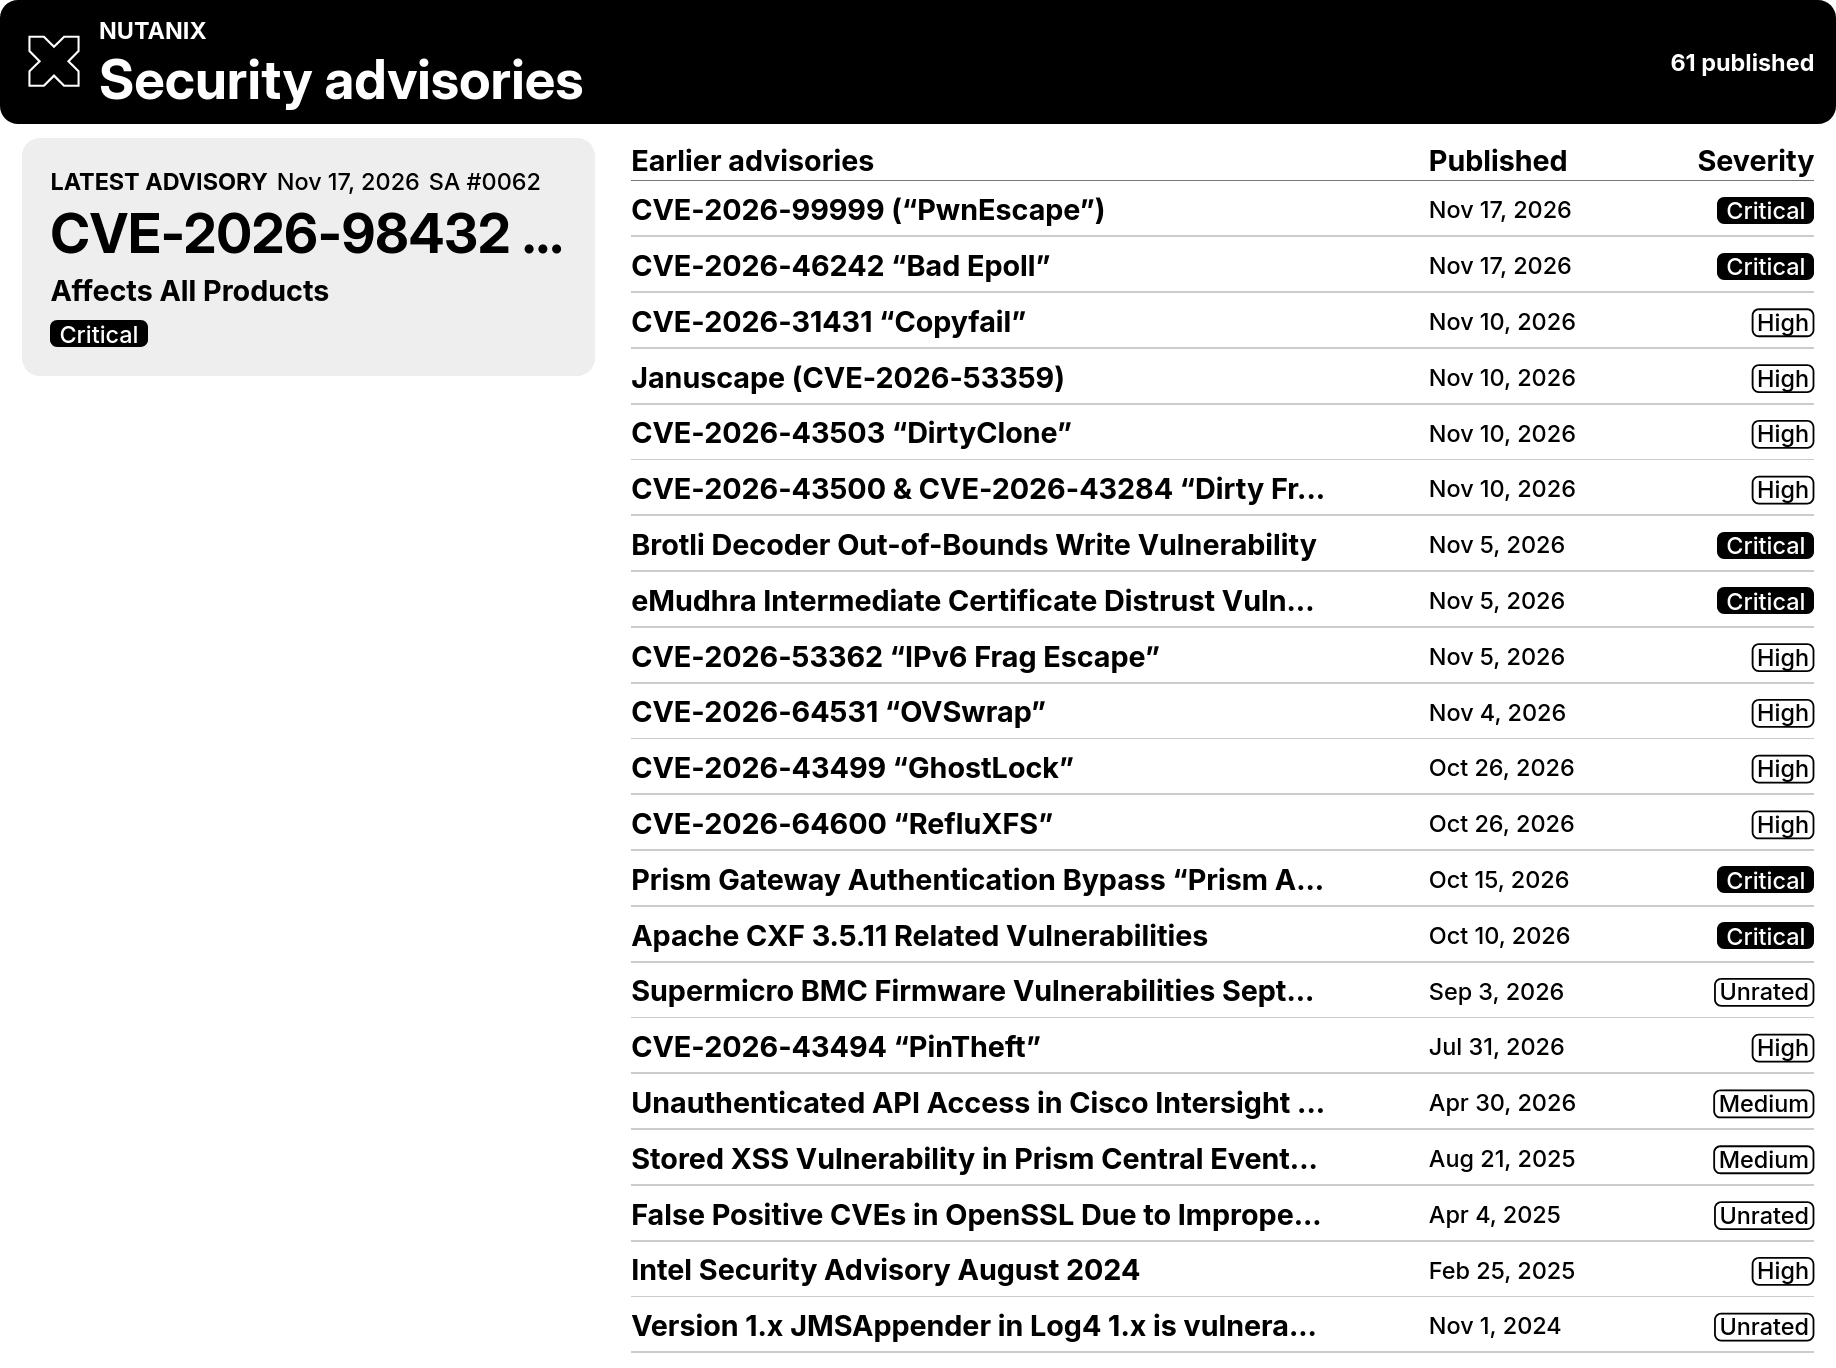
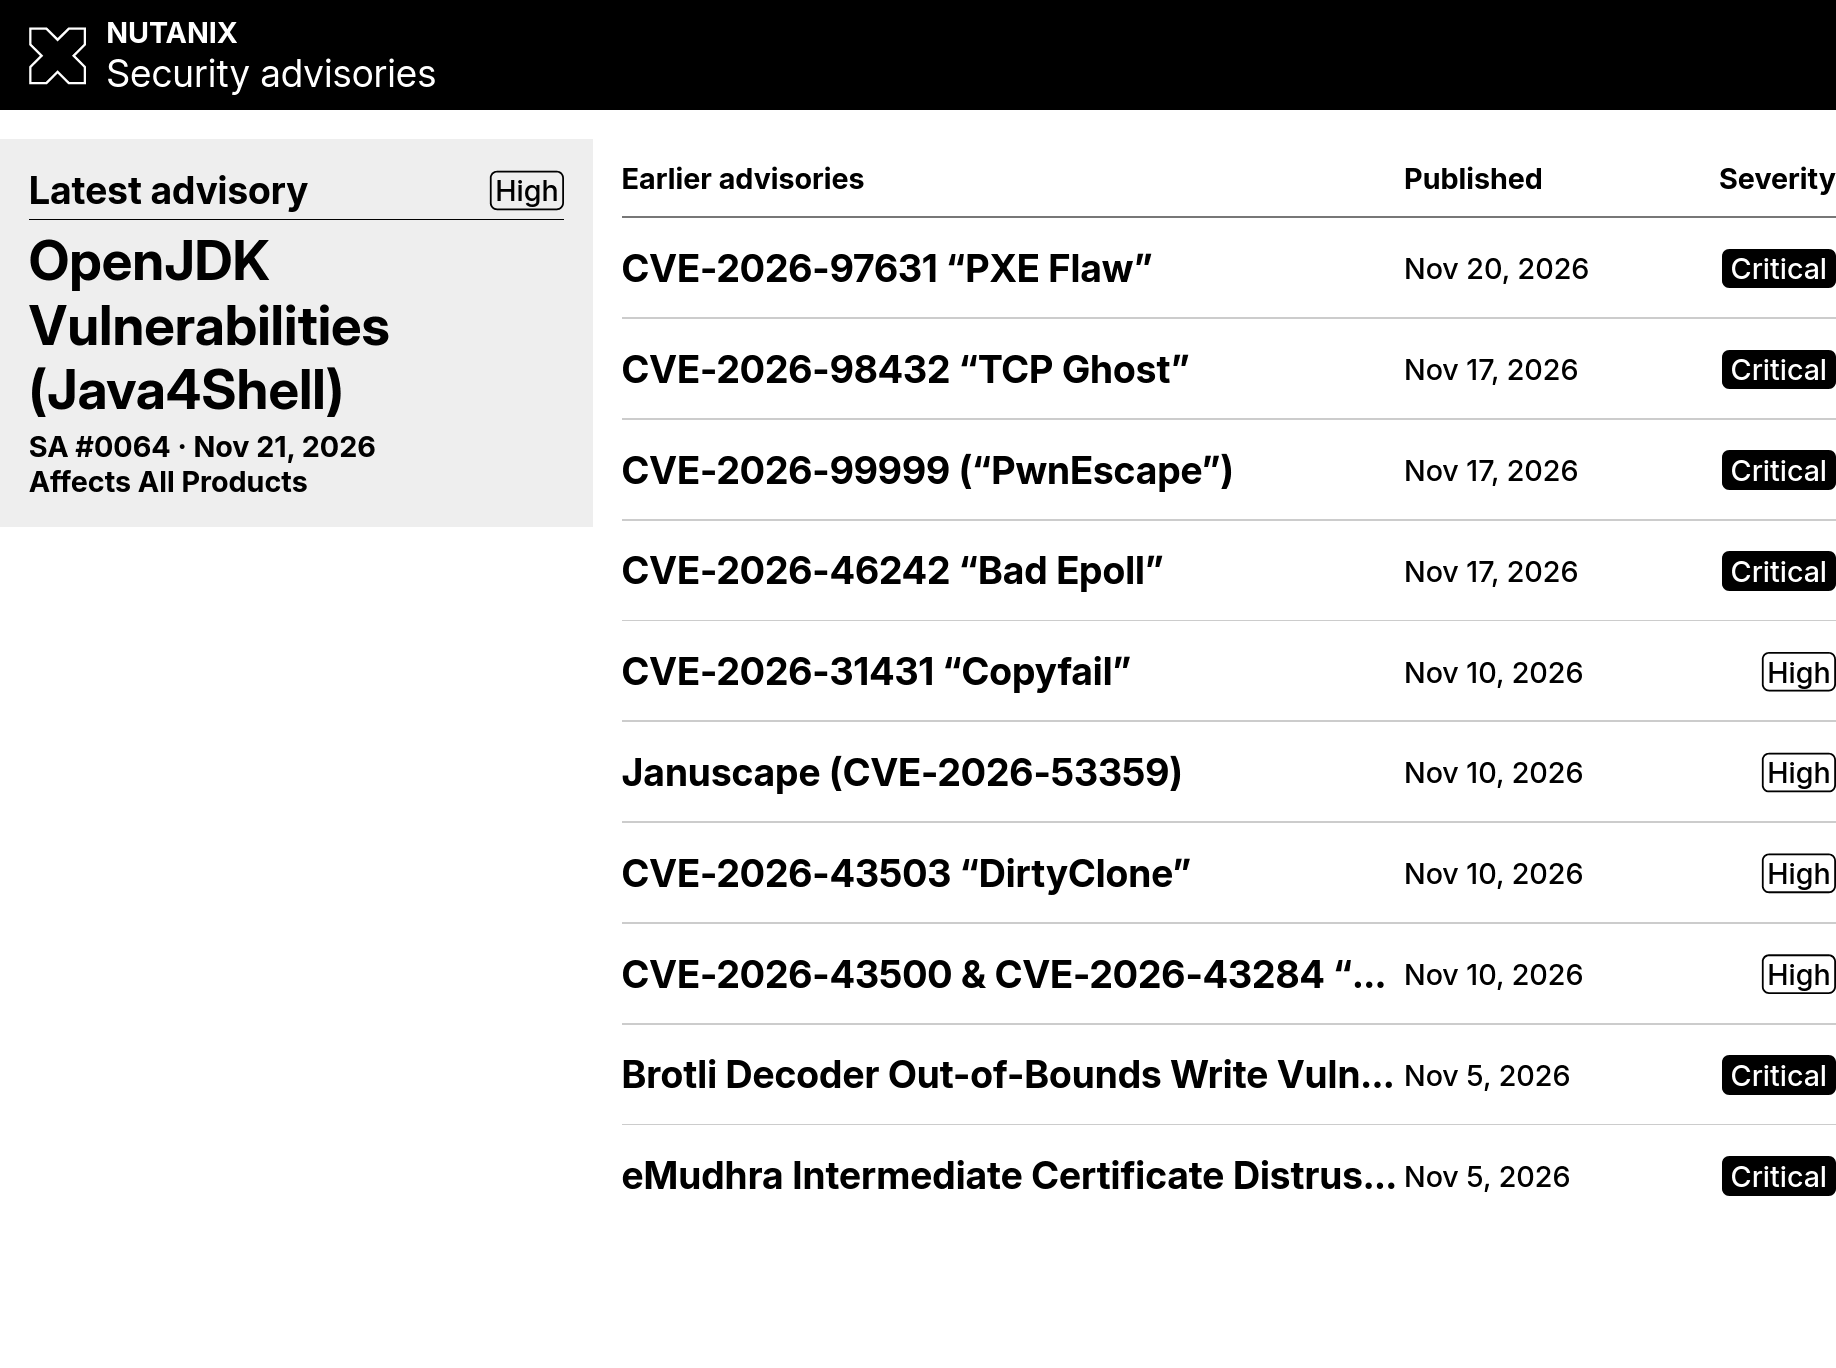
refactor: stabilize and simplify nutanix brief layouts

Changed region(s): [[0.0, 0.0, 1.0, 0.9825], [0.0, 0.1228, 0.3105, 0.3684], [0.9935, 0.0, 1.0, 0.0307]]

diff --git a/TRMNL/src/transform.js b/TRMNL/src/transform.js
@@ -2,6 +2,8 @@
 const SOURCE = 'https://portal.nutanix.com';
 const TIMEOUT_MS = 4500;
 const PAGE_SIZE = 20;
+// The largest view uses one featured item and ten table rows.
+const DISPLAY_LIMIT = 11;
 const ADVISORY_CRITICALITY = ['informational', 'low', 'medium', 'high', 'critical'];
 const PRODUCTS = new Map([
   ['aos', 'AOS'],
@@ -39,7 +41,7 @@ function advisoryData(entries, criticalityFirst) {
     const leftRank = ADVISORY_CRITICALITY.indexOf(text(left.criticality).trim().toLowerCase());
     const rightRank = ADVISORY_CRITICALITY.indexOf(text(right.criticality).trim().toLowerCase());
     return leftRank - rightRank || byDate;
-  });
+  }).slice(-DISPLAY_LIMIT);
   const body = sorted.map((entry, index) => ({
     advisoryNumber: text(entry.advisoryNumber),
     criticality: text(entry.criticality),
@@ -57,7 +59,7 @@ function advisoryData(entries, criticalityFirst) {
 function vulnerabilityData(entries, product) {
   const rows = entries
     .filter((entry) => entry.status === 'Released' && (!product || entry.productName === product))
-    .slice(0, PAGE_SIZE)
+    .slice(0, DISPLAY_LIMIT)
     .map((entry) => {
       const cvss = text(entry.cvss).trim();
       return {

diff --git a/TRMNL/tests/layout_spec.rb b/TRMNL/tests/layout_spec.rb
@@ -1,5 +1,6 @@
 require 'fileutils'
 require 'json'
+require 'yaml'
 
 RSpec.describe 'Nutanix Security layouts' do
   advisories_url = 'https://portal.nutanix.com/api/v1/pages/securityAdvisories'
@@ -40,10 +41,16 @@ RSpec.describe 'Nutanix Security layouts' do
     'x-portrait' => { model: 'v2', width: 1404, height: 1872, bit_depth: 4, screen_classes: 'screen screen--v2 screen--lg screen--4bit screen--portrait' }
   }
   views = %w[full half_horizontal half_vertical quadrant]
+  row_limits = {
+    'og' => [4, 3, 4, 0],
+    'og-portrait' => [8, 3, 8, 0],
+    'x' => [10, 5, 9, 2],
+    'x-portrait' => [10, 5, 9, 2]
+  }
 
   cases.each do |scenario, (mode, mocks, label, count, advisory_sort)|
     devices.each do |device_name, device|
-      views.each do |view|
+      views.each_with_index do |view, view_index|
         it "renders #{scenario} on #{device_name} #{view}" do
           fields = { table_type: mode, nxvd_product: 'aos' }
           fields[:advisory_sort] = advisory_sort if advisory_sort
@@ -54,18 +61,18 @@ RSpec.describe 'Nutanix Security layouts' do
           expect(screen.all('[data-ns-lead]').size).to eq(count.positive? ? 1 : 0)
           expect(screen).to have_no_css('.title_bar')
           expect(screen).to have_no_css('.layout a')
+          expect(screen).to have_no_css('.layout [data-table-limit], .layout [data-clamp]')
           expect(screen.result.requests.size).to eq(1)
           expect(screen).to have_css('[data-ns-lead] [data-ns-subject]', text: label) if count.positive?
 
           if count.positive? && mode == 'nxvd'
-            expect(screen).to have_text("#{count} on page")
             expect(screen.find('[data-ns-score]').text).to eq('9.8')
             expect(screen).to have_text('Fixed in')
           elsif count.positive?
             day = advisory_sort == 'criticality' ? 19 : 20
             expect(screen).to have_text("SA #00#{day}")
             expect(screen).to have_text("Nov #{day}, 2026")
-            expect(screen).to have_text(advisory_sort == 'criticality' ? 'BY CRITICALITY' : 'LATEST ADVISORY')
+            expect(screen.find('[data-ns-order]').text).to eq(advisory_sort == 'criticality' ? 'By criticality' : 'Latest advisory')
             expect(screen).to have_no_text('Investigation and BreakFix Guidance for')
           end
 
@@ -88,14 +95,13 @@ RSpec.describe 'Nutanix Security layouts' do
               const boxes = [...rows, ...document.querySelectorAll('thead, [data-ns-lead]')]
                 .filter(element => element.getClientRects().length)
                 .map(element => element.getBoundingClientRect());
-              const cellOverflow = rows.some(row => [...row.querySelectorAll('[data-clamp]')].some(element => {
+              const cellOverflow = rows.some(row => [...row.querySelectorAll('.nutanix-line')].some(element => {
                 if (!element.getClientRects().length) return false;
-                const text = document.createRange();
-                text.selectNodeContents(element);
-                return text.getBoundingClientRect().right > element.closest('td').getBoundingClientRect().right + 1;
+                return element.getBoundingClientRect().right > element.closest('td').getBoundingClientRect().right + 1;
               }));
               return {
                 rows: rows.length,
+                renderedRows: document.querySelectorAll('[data-ns-row]').length,
                 cellOverflow,
                 widthOverflow: mast.scrollWidth - mast.clientWidth,
                 clipped: boxes.some(box => box.top < frame.top - 1 || box.bottom > frame.bottom + 1 ||
@@ -108,16 +114,13 @@ RSpec.describe 'Nutanix Security layouts' do
           expect(geometry['widthOverflow']).to be <= 1
           expect(geometry['clipped']).to be(false)
           expect(geometry['cellOverflow']).to be(false)
-          if count <= 1 || (view == 'quadrant' && device_name.start_with?('og'))
-            expect(geometry['rows']).to eq(0)
-          else
-            expect(geometry['rows']).to be_between(1, count - 1)
-          end
+          remaining = [count - 1, 0].max
+          expect(geometry['rows']).to eq([remaining, row_limits.fetch(device_name)[view_index]].min)
+          expect(geometry['renderedRows']).to eq([remaining, row_limits.fetch('x')[view_index]].min)
           if count > 1 && view == 'full' && %w[og x].include?(device_name)
             expect(geometry['beside']).to eq(device_name == 'x')
             columns = device_name == 'x' ? (mode == 'nxvd' ? 4 : 3) : 2
             expect(geometry['columns']).to eq(columns)
-            expect(geometry['rows']).to eq(count - 1) if device_name == 'x' && mode == 'nxvd'
           end
 
           FileUtils.mkdir_p('_build/previews')
@@ -126,6 +129,34 @@ RSpec.describe 'Nutanix Security layouts' do
           image.write("_build/previews/#{scenario}-#{device_name}-#{view}.png")
         end
       end
+    end
+  end
+
+  %w[og x].each do |device_name|
+    it "keeps the full #{device_name} layout steady while framework JavaScript loads" do
+      version = YAML.safe_load_file(File.expand_path('../src/settings.yml', __dir__)).fetch('framework_version')
+      overrides = {
+        "https://trmnl.com/js/#{version}/plugins.js" => {
+          body: 'window.TRMNL_PLUGINS_READY = true; window.nutanixCssOnly = true;',
+          content_type: 'application/javascript'
+        }
+      }
+      args = { view: 'full', device: devices.fetch(device_name),
+               custom_fields: { table_type: 'advisories' }, mocks: advisory_mocks }
+      geometry = <<~JS
+        Array.from(document.querySelectorAll('[data-ns-mast], [data-ns-lead], [data-ns-subject], table, [data-ns-row]'))
+          .filter(element => element.getClientRects().length)
+          .map(element => {
+            const { x, y, width, height } = element.getBoundingClientRect();
+            return [x, y, width, height].map(Math.round);
+          })
+      JS
+      initial = trmnl.render(**args, asset_overrides: overrides)
+      expect(initial.evaluate('Boolean(window.nutanixCssOnly)')).to eq(true)
+      before = initial.evaluate(geometry)
+      settled = trmnl.render(**args)
+      expect(settled.evaluate('Boolean(window.TRMNL_PLUGINS_READY && !window.nutanixCssOnly)')).to eq(true)
+      expect(settled.evaluate(geometry)).to eq(before)
     end
   end
 end

diff --git a/TRMNL/README.md b/TRMNL/README.md
@@ -18,7 +18,7 @@ The listing icon is available at [media/icon.svg](media/icon.svg). Upload it sep
 
 ## Previews
 
-Recorded on November 20, 2026 using public Nutanix data.
+Recorded on November 21, 2026 using public Nutanix data.
 
 | Security Advisories | Full | Half horizontal | Half vertical | Quadrant |
 | --- | --- | --- | --- | --- |
@@ -36,20 +36,18 @@ Recorded on November 20, 2026 using public Nutanix data.
 
 The full OG view stacks the lead and table. The full landscape X view uses a separate lead panel beside a wider table with dedicated publication dates or product and fixed-release columns. Portrait views stack the content. The OG quadrant shows one featured item, and the X quadrant also fits a short table. [TRMNL X layout guide](https://trmnl.com/framework/docs/3.4/trmnl_x_guide)
 
-The native table fits rows to the space available. These landscape previews use the same public data for both devices. Counts include the featured item and vary with the feed, title lengths, and display scale. [TRMNL table overflow](https://trmnl.com/framework/docs/3.4/table_overflow)
+The templates cap the number of rows before rendering. Framework 3.4.6 handles typography, table sizing, and responsive visibility. Text clips in place as the browser lays out the page. The landscape limits below include the featured item.
 
-| Layout | OG Advisories | X Advisories | OG NXVD | X NXVD |
-| --- | ---: | ---: | ---: | ---: |
-| Full | 9 | 22 | 8 | 15 |
-| Half horizontal | 6 | 9 | 6 | 8 |
-| Half vertical | 9 | 16 | 8 | 15 |
-| Quadrant | 1 | 6 | 1 | 5 |
-
-The sample NXVD page supplied 15 fixes. The full landscape X regression shows all 20 fixes on a filled page.
+| Layout | OG | X |
+| --- | ---: | ---: |
+| Full | 5 | 11 |
+| Half horizontal | 4 | 6 |
+| Half vertical | 5 | 10 |
+| Quadrant | 1 | 3 |
 
 ## Data behavior
 
-Each refresh makes one request to the selected Nutanix feed. The Advisories GET returns the whole catalog even with `limit` or `pageSize` set. Serverless keeps only the fields used on screen. NXVD requests the first 20 rows by descending CVSS, with a product filter when selected. Nutanix can return fewer rows than requested, and the counts on screen cover only released fixes in that page. TRMNL fits table rows when it renders each layout from the refreshed data. Check deployed versions separately to determine which fixes a cluster has.
+Each refresh makes one request to the selected Nutanix feed. The Advisories GET returns the whole catalog even with `limit` or `pageSize` set. NXVD requests the first 20 rows by descending CVSS, with a product filter when selected. Nutanix can return fewer rows than requested. Serverless sends up to 11 ranked items to TRMNL for the largest layout and keeps only fields used on screen. Check deployed versions separately to determine which fixes a cluster has.
 
 The public NXVD response has no publication date field. In testing, `DATE`, `PUBLICATION_DATE` and `RELEASE_DATE` returned the same rows in the same order as an unknown sort column.
 

diff --git a/README.md b/README.md
@@ -8,7 +8,7 @@ Displays Nutanix Security Advisories or released fixes from the Nutanix Vulnerab
 
 ![Nutanix Security Advisories on TRMNL](TRMNL/media/preview_full.webp)
 
-Captured from the Nutanix portal on November 20, 2026. [All layout previews](TRMNL/README.md#previews).
+Captured from the Nutanix portal on November 21, 2026. [All layout previews](TRMNL/README.md#previews).
 
 ## Settings
 
